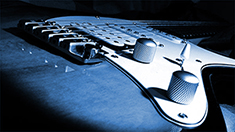
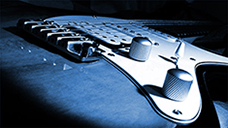
evened out display height of gallery photos

diff --git a/css/main.css b/css/main.css
@@ -69,7 +69,9 @@ h1 {
 #gallery li {
 	float: left;
 	display: block;
-	border: 2px;
+	padding: 5px;
+	height: 128px;
+	overflow: hidden;
 }
 
 /*lesson information section ----------------------------------------- */
